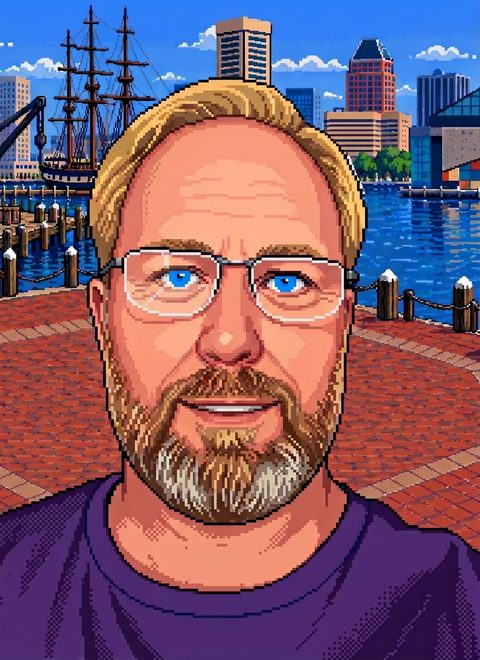
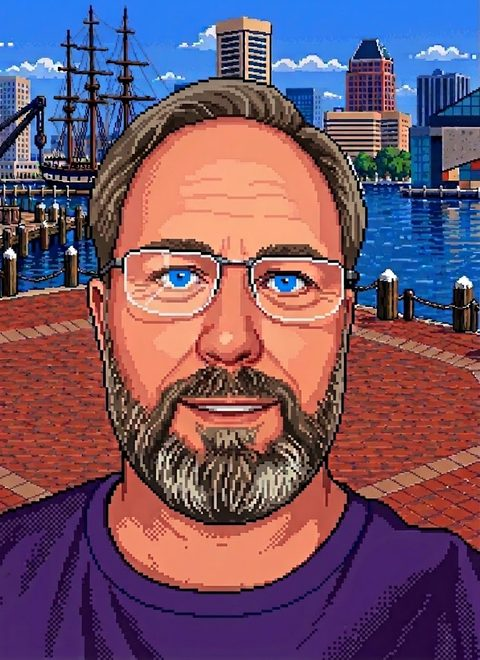
Swap in the new pixel headshot
Regenerates dan-portrait.webp/.jpg from the uploaded PixelHeadshot.jpg
(745x1024). It resizes to exactly 480x660, the same as the outgoing portrait,
because the aspect ratios match to within 0.001 - so about.html needs no
change: the width/height attributes that guard against layout shift stay
correct, the markup already points at dan-portrait, and the alt text still
describes the picture, which is the same Inner Harbor scene cropped tighter.

The optimize_images.py portrait job named Headshot2.jpg, removed from the tree
long ago, so it had been silently skipping. It now points at the new source.

Drops the 195 KB upload from the tree once the 69 KB / 83 KB derivatives exist,
matching how the earlier uploads were handled - the original stays recoverable
from history at 623b5b7. README now says sources may live anywhere in the repo,
since this one arrived in assets/img rather than the root.

Claude-Session: https://claude.ai/code/session_01H2hfoLqJz5oHq9wua73LwJ

diff --git a/tools/optimize_images.py b/tools/optimize_images.py
@@ -19,7 +19,7 @@ OUT = ROOT / "assets" / "img"
 JOBS = [
     ("pantryLogic.png", "pantry-logic", 1600, "JPEG", 82),
     ("GagaBall.png", "gaga-pit-showdown", 1600, "JPEG", 74),
-    ("Headshot2.jpg", "dan-portrait", 480, "JPEG", 82),
+    ("assets/img/PixelHeadshot.jpg", "dan-portrait", 480, "JPEG", 82),
 ]
 
 

diff --git a/README.md b/README.md
@@ -65,14 +65,15 @@ border and the "Coming soon" badge.
 
 ## Adding artwork
 
-Drop the full-size image in the repo root, add a line to the `JOBS` list in
-`tools/optimize_images.py`, then:
+Put the full-size image anywhere in the repo, add a line to the `JOBS` list in
+`tools/optimize_images.py` (the source path is relative to the repo root), then:
 
 ```sh
 pip install Pillow
 python3 tools/optimize_images.py
 ```
 
-It writes a resized `.webp` and a `.jpg` fallback into `assets/img/`. Keep
-banners under ~350 KB — the whole point is that the page stays quick on a phone.
+It writes a resized `.webp` and a `.jpg` fallback into `assets/img/`, then the
+full-size source can be removed from the tree — git history keeps it, and the
+site only ever serves the derivatives. Keep banners under ~350 KB — the whole point is that the page stays quick on a phone.
 Reference them with a `<picture>` block so browsers pick the smaller file.
